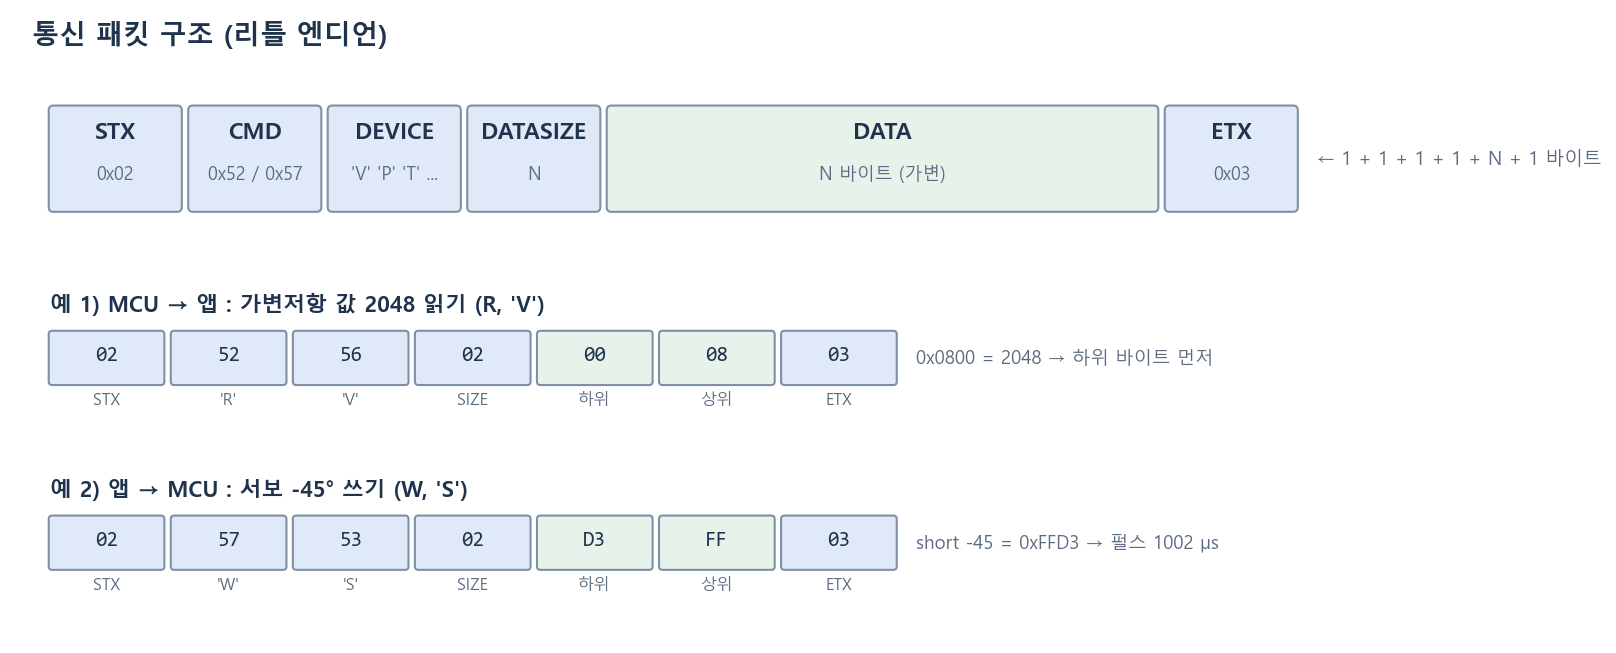
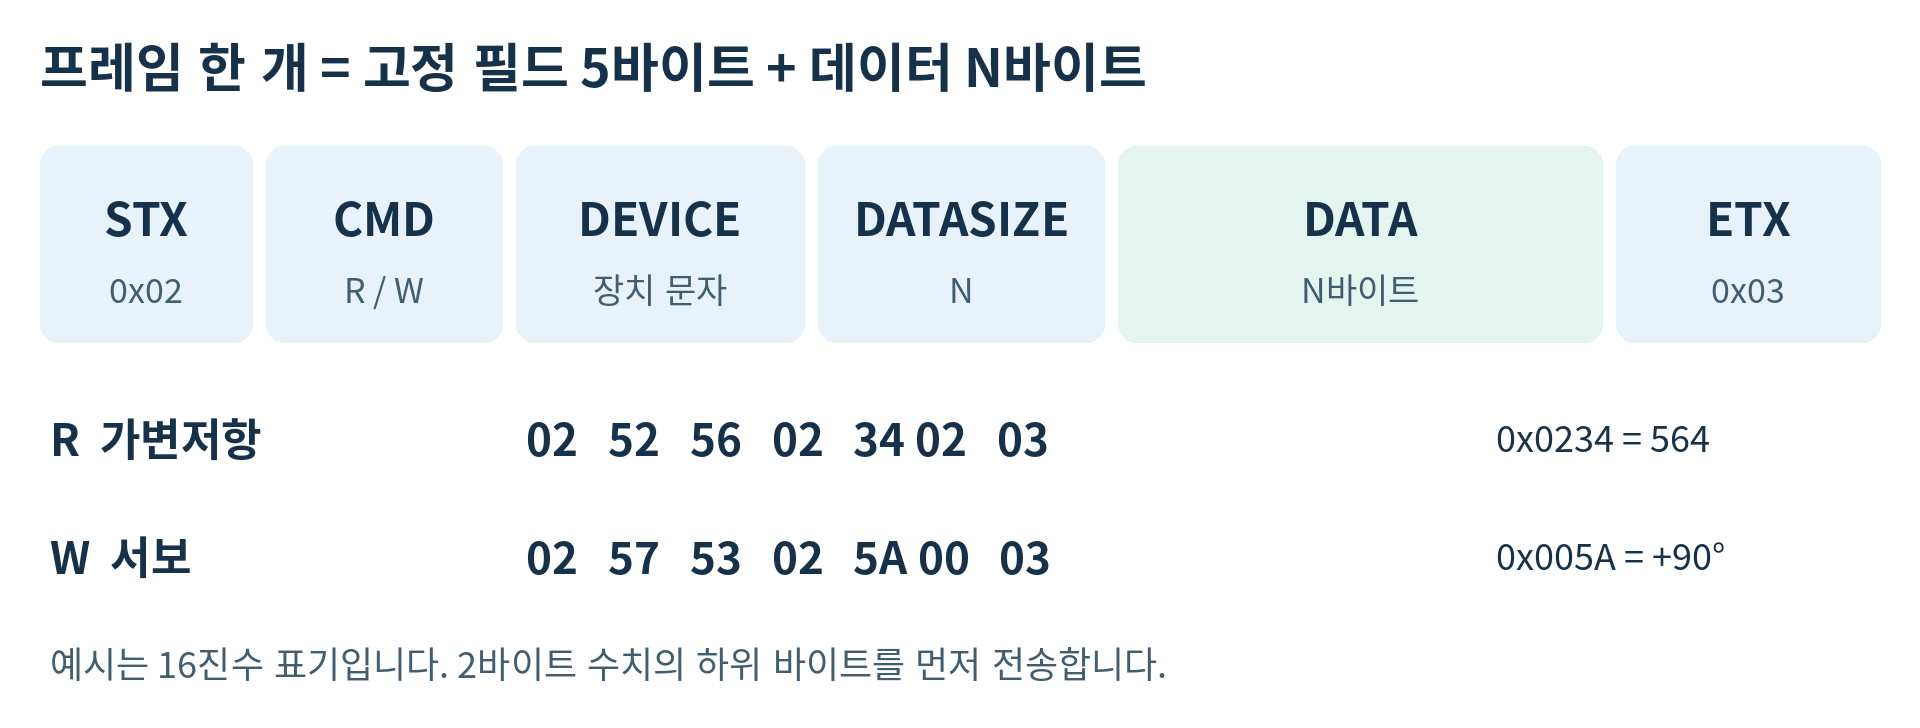
docs: redrawn figures and textbook source attribution
- README: simple R/W, architecture, I/O figures; detailed versions in 01/02/04
- State that the protocol table and EVB come from the textbook "Demo2"
  project and that the firmware implementation is my own
- Note servo is W-only in this implementation (textbook table says R/W)

diff --git a/README.md b/README.md
@@ -1,6 +1,8 @@
 # STM32F103RB EVB 블루투스 양방향 제어 (R/W 프로토콜)
 
-**스마트폰 앱 ↔ HM-10(BLE) ↔ USART1로 직접 설계한 바이너리 패킷을 주고받아, EVB 보드의 센서 7종을 읽고(R) 출력 소자 6종을 제어(W)하는 인터럽트 기반 펌웨어**
+**교재 마지막 장의 '데모2' 과제를 직접 구현한 프로젝트 — 교재가 제공한 통신 프로토콜(STX~ETX 바이너리 패킷)로 스마트폰 앱 ↔ HM-10(BLE) ↔ USART1을 연결해, EVB 보드의 센서 7종을 읽고(R) 출력 소자 6종을 제어(W)하는 인터럽트 기반 펌웨어**
+
+<sub>교재 제공: 패킷 형식·장치 문자·데이터 형식(프로토콜 표), EVB 보드 · 직접 구현: 패킷 송수신과 해석, 장치별 제어, 인터럽트·DMA·타이머 구성 (`main.c` USER CODE)</sub>
 
 ![MCU](https://img.shields.io/badge/MCU-STM32F103RB-03234B)
 ![Board](https://img.shields.io/badge/Board-NUCLEO--F103RB_+_EVB-03234B)
@@ -28,7 +30,7 @@
 
 ## 시스템 구조
 
-![시스템 구조](docs/images/system_architecture.png)
+![시스템 구조](docs/images/readme/system_architecture.png)
 
 <sub>TIM2 1 ms 인터럽트 → 50 ms마다 R 패킷 1개 송신 (장치 7개 순환, 장치당 350 ms) · USART1 수신 인터럽트로 W 패킷 조립 → 메인 루프에서 해석</sub>
 
@@ -36,7 +38,7 @@
 
 ## 통신 프로토콜
 
-![패킷 구조](docs/images/protocol_frame.png)
+![R·W 데이터 방향](docs/images/readme/protocol_frame.png)
 
 | DEVICE | 장치 | R/W | 크기 | 형식 |
 |:---:|---|:---:|:---:|---|
@@ -54,7 +56,7 @@
 
 ## 하드웨어
 
-![EVB 연결도](docs/images/hardware_block.png)
+![입력 → STM32 → 출력](docs/images/readme/hardware_block.png)
 
 <!-- 사진 자리: EVB 보드 전체 사진 + 주요 소자 클로즈업 (CLCD, 서보, RGB LED, HM-10) -->
 

diff --git a/docs/01_system_architecture.md b/docs/01_system_architecture.md
@@ -6,9 +6,11 @@
 
 ### 0-1. 개발 목적
 
+> **출처:** 교재 마지막 장의 프로젝트 **'데모2'**를 직접 구현했습니다. 통신 프로토콜 표(패킷 형식, 장치 문자, 데이터 형식)와 EVB 보드는 교재에서 제공되었고, 패킷 송수신·해석과 장치 제어, 주변장치 구성은 직접 작성했습니다.
+
 | 목적 | 구현 방식 |
 |---|---|
-| 스마트폰 앱으로 보드의 센서 값을 **읽고(R)**, 출력 소자를 **쓰는(W)** 양방향 제어 | 블루투스 모듈 HM-10 ↔ USART1, 직접 정의한 바이너리 패킷 (STX / CMD / DEVICE / DATASIZE / DATA / ETX) |
+| 스마트폰 앱으로 보드의 센서 값을 **읽고(R)**, 출력 소자를 **쓰는(W)** 양방향 제어 | 블루투스 모듈 HM-10 ↔ USART1, 교재에서 주어진 바이너리 패킷 규격 (STX / CMD / DEVICE / DATASIZE / DATA / ETX)을 구현 |
 | 폴링이 아닌 **인터럽트 기반** 구조 | UART 수신 인터럽트, 타이머 인터럽트, 외부 인터럽트(EXTI), ADC DMA |
 | 서로 다른 주변장치를 한 MCU에서 동시에 사용 | ADC+DMA, PWM 2종(LED / 서보), SPI(DAC), I2C(온습도), GPIO(CLCD, LED, 스위치) |
 

diff --git a/docs/04_firmware_implementation.md b/docs/04_firmware_implementation.md
@@ -23,6 +23,8 @@
 
 ![패킷 구조](images/protocol_frame.png)
 
+> 프로토콜 규격(프레임 형식, 장치 문자, 데이터 형식)은 교재 '데모2'의 통신 프로토콜 표를 따랐고, 아래 코드는 그 규격을 구현한 것입니다.
+
 ### 1-1. 프레임
 
 | 필드 | 크기 | 값 |
@@ -42,7 +44,7 @@
 | `'P'` | 조도 센서 | R | 2 | unsigned short (0~4095) |
 | `'T'` | TC1047 온도 | R | 4 | float (−45~125 °C) |
 | `'E'` | 엔코더 | R/W | 4 | int |
-| `'S'` | 서보모터 | W | 2 | short (−90~90°) |
+| `'S'` | 서보모터 | W | 2 | short (−90~90°) — 교재 표는 R/W, 이 구현은 W만 |
 | `'I'` | HDC1080 온습도 | R | 4 + 1 | float 온도 + unsigned char 습도 |
 | `'D'` | DAC | W | 2 | unsigned short (0~4095) |
 | `'L'` | LED 4개 | R/W | 4 | 각 1바이트 (0x00 OFF / 0x01 ON) |
